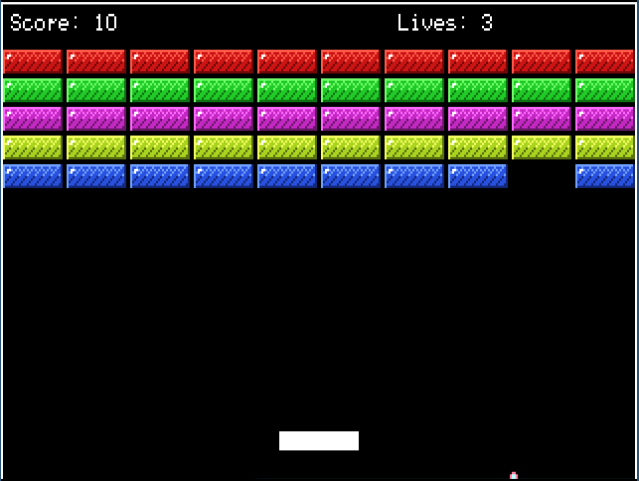
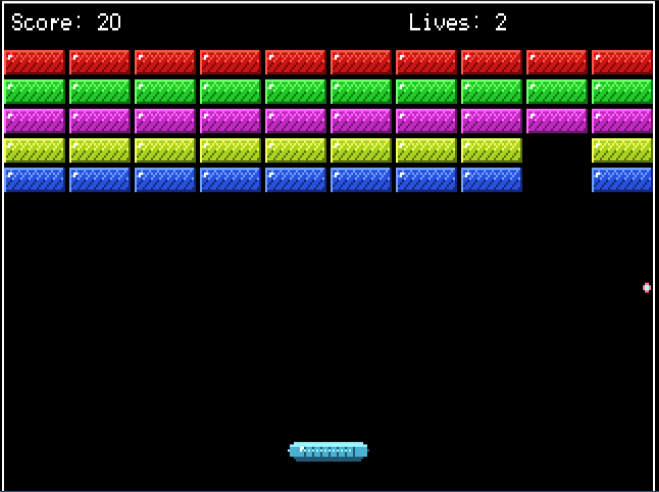
Improved paddle to draw it much better and with more colors. Rounded borders and some texture. Next step add acceleration and velocity to the the paddle

Changed region(s): [[0.0, 0.0, 1.0, 1.0], [0.4163, 0.8732, 0.5649, 0.9667]]

diff --git a/CRUZKAN.C b/CRUZKAN.C
@@ -16,6 +16,7 @@
 #define BRICK_GAP 2
 #define BRICK_PALETTE_START 32
 #define BRICK_PALETTE_STRIDE 3
+#define PADDLE_PALETTE_START 48
 
 typedef struct
 {
@@ -78,6 +79,14 @@ void init_brick_palette()
     set_palette_color(BRICK_PALETTE_START + 4 * BRICK_PALETTE_STRIDE + 0, 10, 20, 55);
     set_palette_color(BRICK_PALETTE_START + 4 * BRICK_PALETTE_STRIDE + 1, 28, 40, 63);
     set_palette_color(BRICK_PALETTE_START + 4 * BRICK_PALETTE_STRIDE + 2, 5, 10, 30);
+}
+
+void init_paddle_palette()
+{
+    /* Steel/cyan paddle with highlight + shadow. */
+    set_palette_color(PADDLE_PALETTE_START + 0, 18, 44, 52); /* base */
+    set_palette_color(PADDLE_PALETTE_START + 1, 38, 60, 63); /* light */
+    set_palette_color(PADDLE_PALETTE_START + 2, 8, 22, 28);  /* dark */
 }
 
 void set_mode(unsigned char mode)
@@ -240,7 +249,122 @@ void init_game()
 
 void draw_paddle()
 {
-    draw_filled_rect(paddle.x, paddle.y, paddle.width, PADDLE_HEIGHT, 15);
+    int i, j;
+    int radius = PADDLE_HEIGHT / 2;
+    int r = radius - 1;
+    int cy = r;
+    unsigned char base_color = PADDLE_PALETTE_START + 0;
+    unsigned char light_color = PADDLE_PALETTE_START + 1;
+    unsigned char dark_color = PADDLE_PALETTE_START + 2;
+
+    for (i = 0; i < PADDLE_HEIGHT; i++)
+    {
+        for (j = 0; j < paddle.width; j++)
+        {
+            int inside = 1;
+            int dx, dy;
+            unsigned char c = base_color;
+
+            /* Rounded ends */
+            if (j < radius)
+            {
+                dx = (radius - 1) - j;
+                dy = cy - i;
+                if ((dx * dx + dy * dy) > (r * r))
+                    inside = 0;
+            }
+            else if (j >= paddle.width - radius)
+            {
+                dx = j - (paddle.width - radius);
+                dy = cy - i;
+                if ((dx * dx + dy * dy) > (r * r))
+                    inside = 0;
+            }
+
+            if (!inside)
+                continue;
+
+            /* Subtle vertical gradient */
+            if (i <= 1)
+                c = light_color;
+            else if (i >= PADDLE_HEIGHT - 2)
+                c = dark_color;
+
+            /* Grip pattern in the middle band */
+            if (i >= 2 && i <= PADDLE_HEIGHT - 3)
+            {
+                int center = paddle.width / 2;
+                int dist = j - center;
+                if (dist < 0)
+                    dist = -dist;
+
+                if (dist < (paddle.width / 2 - 6) && ((j & 3) == 0))
+                {
+                    if (c == base_color)
+                        c = dark_color;
+                }
+            }
+
+            put_pixel(paddle.x + j, paddle.y + i, c);
+        }
+    }
+
+    /* Bevel outline: light top/left, dark bottom/right (only where shape exists) */
+    for (i = 0; i < PADDLE_HEIGHT; i++)
+    {
+        for (j = 0; j < paddle.width; j++)
+        {
+            int inside = 1;
+            int dx, dy;
+
+            if (j < radius)
+            {
+                dx = (radius - 1) - j;
+                dy = cy - i;
+                if ((dx * dx + dy * dy) > (r * r))
+                    inside = 0;
+            }
+            else if (j >= paddle.width - radius)
+            {
+                dx = j - (paddle.width - radius);
+                dy = cy - i;
+                if ((dx * dx + dy * dy) > (r * r))
+                    inside = 0;
+            }
+
+            if (!inside)
+                continue;
+
+            /* Top edge */
+            if (i == 0)
+                put_pixel(paddle.x + j, paddle.y + i, light_color);
+            /* Bottom edge */
+            if (i == PADDLE_HEIGHT - 1)
+                put_pixel(paddle.x + j, paddle.y + i, dark_color);
+            /* Left edge */
+            if (j == 0)
+                put_pixel(paddle.x + j, paddle.y + i, light_color);
+            /* Right edge */
+            if (j == paddle.width - 1)
+                put_pixel(paddle.x + j, paddle.y + i, dark_color);
+        }
+    }
+
+    /* Specular highlight + "core" stripe */
+    if (paddle.width > 14)
+    {
+        int hx = paddle.x + 6;
+        int hy = paddle.y + 2;
+        put_pixel(hx, hy, 15);
+        put_pixel(hx + 1, hy, 15);
+        put_pixel(hx, hy + 1, 15);
+
+        for (j = 8; j < paddle.width - 8; j++)
+        {
+            if ((j & 1) == 0)
+                put_pixel(paddle.x + j, paddle.y + 3, light_color);
+        }
+    }
 }
 
 void erase_paddle(int x)
@@ -778,6 +902,7 @@ int main()
 {
     set_mode(0x13); /* 320x200 256 color mode */
     init_brick_palette();
+    init_paddle_palette();
 
     intro_scene();
 
